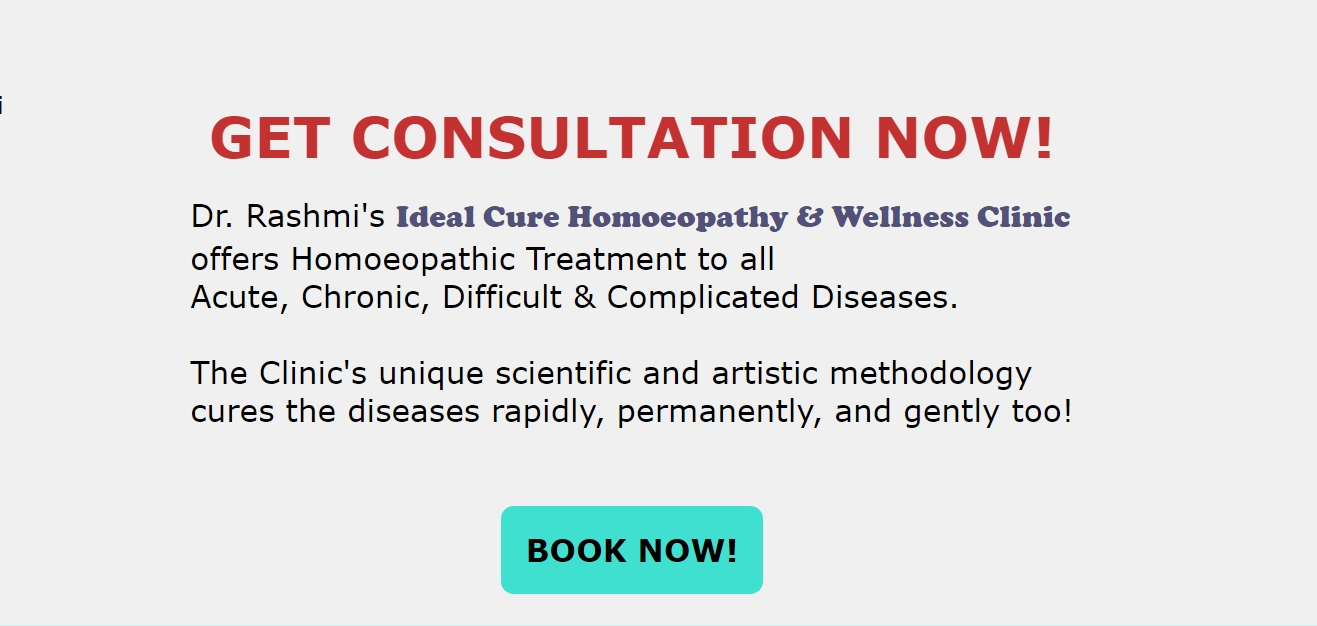
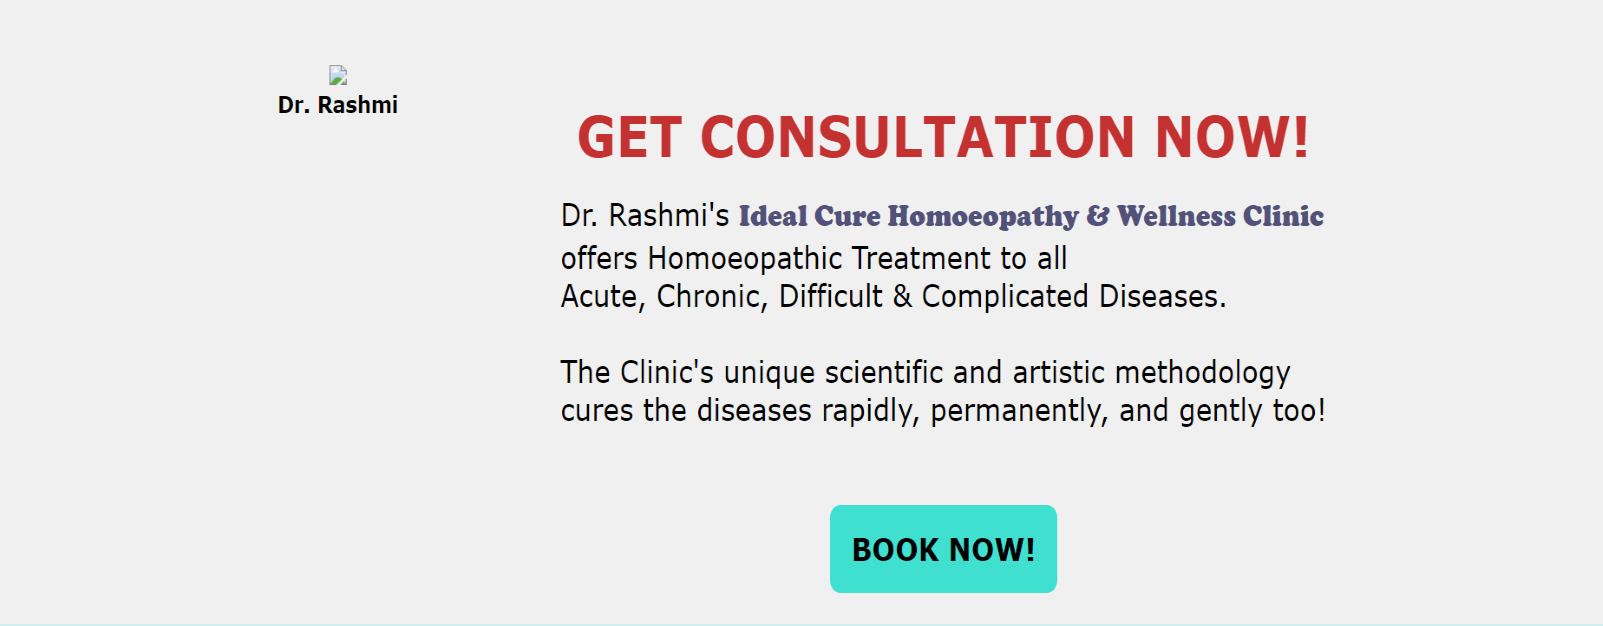
index page fix

diff --git a/frontend/templates/index.html b/frontend/templates/index.html
@@ -2,10 +2,10 @@
 {% block main %}
 <div id="home-page-slideshow" class="carousel slide carousel-fade" data-bs-ride="carousel">
     <div class="carousel-inner" onclick="window.open('/consultation')" style="cursor: pointer;">
-        <!-- <div class="carousel-item active">
-      <img src="/static/images/slide1.png" class="d-block w-100">
-    </div> -->
         <div class="carousel-item active">
+            <img src="/static/images/slide1.png" class="d-block w-100">
+        </div>
+        <div class="carousel-item">
             <img src="/static/images/slide2.png" class="d-block w-100">
         </div>
         <div class="carousel-item">
@@ -21,7 +21,7 @@
         <span class="visually-hidden">Next</span>
     </button>
 </div>
-<div class="section" id="about">
+<!-- <div class="section" id="about">
     <div class="big-inner-section" style="flex: 0 1 100%;">
         <p>
             <span class="inner-section-heading"><a href="/consultation/">GET CONSULTATION NOW!</a></span>
@@ -34,9 +34,8 @@
             </center>
         </p>
     </div>
-</div>
-
-<div id="home-page-consultation-slideshow" class="carousel slide carousel-fade" data-bs-ride="carousel">
+</div> -->
+<!-- <div id="home-page-consultation-slideshow" class="carousel slide carousel-fade" data-bs-ride="carousel">
     <div class="carousel-inner" onclick="window.open('/consultation')" style="cursor: pointer;">
         <div class="carousel-item active">
             <img src="/static/images/consultation-mobile.jpg" class="d-block w-100">
@@ -53,8 +52,7 @@
         <span class="carousel-control-next-icon" aria-hidden="true"></span>
         <span class="visually-hidden">Next</span>
     </button>
-</div>
-
+</div> -->
 <div class="section" id="why">
     <h1 class="section-heading">Why us?</h1>
     <div class="big-inner-section">
@@ -68,7 +66,7 @@
             <br><br>
             By this, it means that Homoeopathic medicines stimulate the body's own natural ability to fight off the diseases and CURE of the suffering is obtained.
             <br><br>
-            You should choose Homoeopathy because :<br><br>
+            You should choose Homoeopathy because :
             <ul>
                 <li>The person in disease and not the disease in person is treated.</li>
                 <li>The person as a whole and not just the name of disease is treated.</li>
@@ -87,7 +85,6 @@
                 <br>
                 <li>Medicines are cost effective.</li>
             </ul>
-            <i class="highlight-section">It is because of all these qualities that Homoeopathy is gaining widespread acceptance and popularity all across the world.</i>
         </p>
     </div>
     <div class="big-inner-section">
@@ -103,7 +100,6 @@
             It is because of the dedication & commitment to these ideals, that Dr. Rashmi has shown astonishing results in innumerable cases of the most difficult and complicated diseases.
             <br><br>
             You should choose this clinic because:
-            <br>
             <ul>
                 <li><strong>True classical Homoeopathy </strong>in its purest form is practiced.</li>
                 <li><strong>You are you : </strong>At the clinic, we understand that each patient is unique and so are one's problems, and therefore must be treated individually as per their needs.</li>
@@ -115,18 +111,21 @@
             </ul>
         </p>
     </div>
+    <div class="highlight-section">
+        It is because of all these qualities that Homoeopathy is gaining widespread acceptance and popularity all across the world.
+    </div>
 </div>
-<div class="section" id="faqs">
+<div class="section" id="faqs" style="background: var(--helper-color-2);">
     <h1 class="section-heading">Frequently Asked Questions</h1>
-    <div class="accordion" id="faq-accordion">
+    <div class="accordion container" id="faq-accordion">
         {% for faq in faqs %}
         <div class="accordion-item">
             <h2 class="accordion-header" id="{{ faq.id }}">
-                <button class="accordion-button" type="button" data-bs-toggle="collapse" data-bs-target="#collapse{{ faq.id }}" aria-expanded="true" aria-controls="collapse{{ faq.id }}">
-                    <b>{{ faq.Question }}</b>
+                <button class="accordion-button collapsed" type="button" data-bs-toggle="collapse" data-bs-target="#collapse{{ faq.id }}" aria-expanded="true" aria-controls="collapse{{ faq.id }}" style="background: rgb(250, 250, 250);">
+                    <b>{{ forloop.counter }}. {{ faq.Question }}</b>
                 </button>
             </h2>
-            <div id="collapse{{ faq.id }}" class="accordion-collapse collapse" aria-labelledby="{{ faq.id }}" data-bs-parent="#faq-accordion">
+            <div id="collapse{{ faq.id }}" class="accordion-collapse collapse bg-success text-light" aria-labelledby="{{ faq.id }}" data-bs-parent="#faq-accordion">
                 <div class="accordion-body">
                     <small>{{ faq.Answer }}</small>
                 </div>
